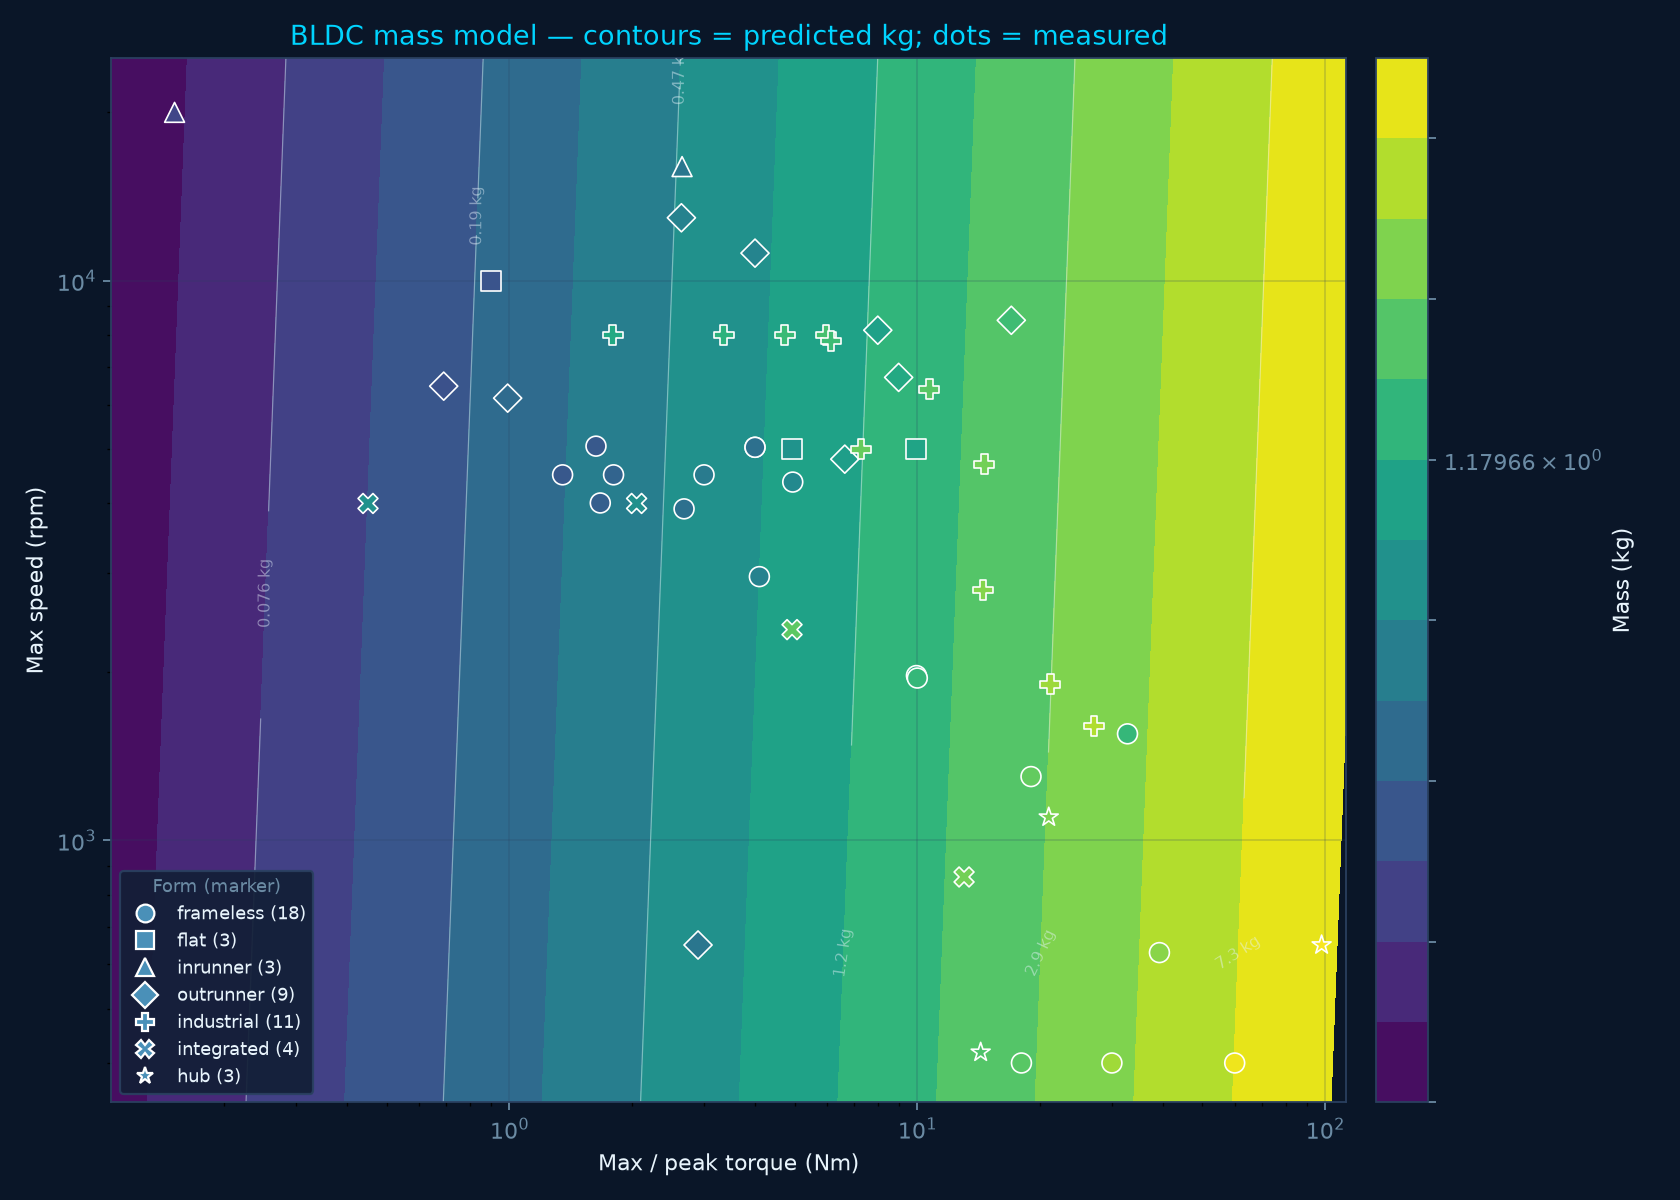
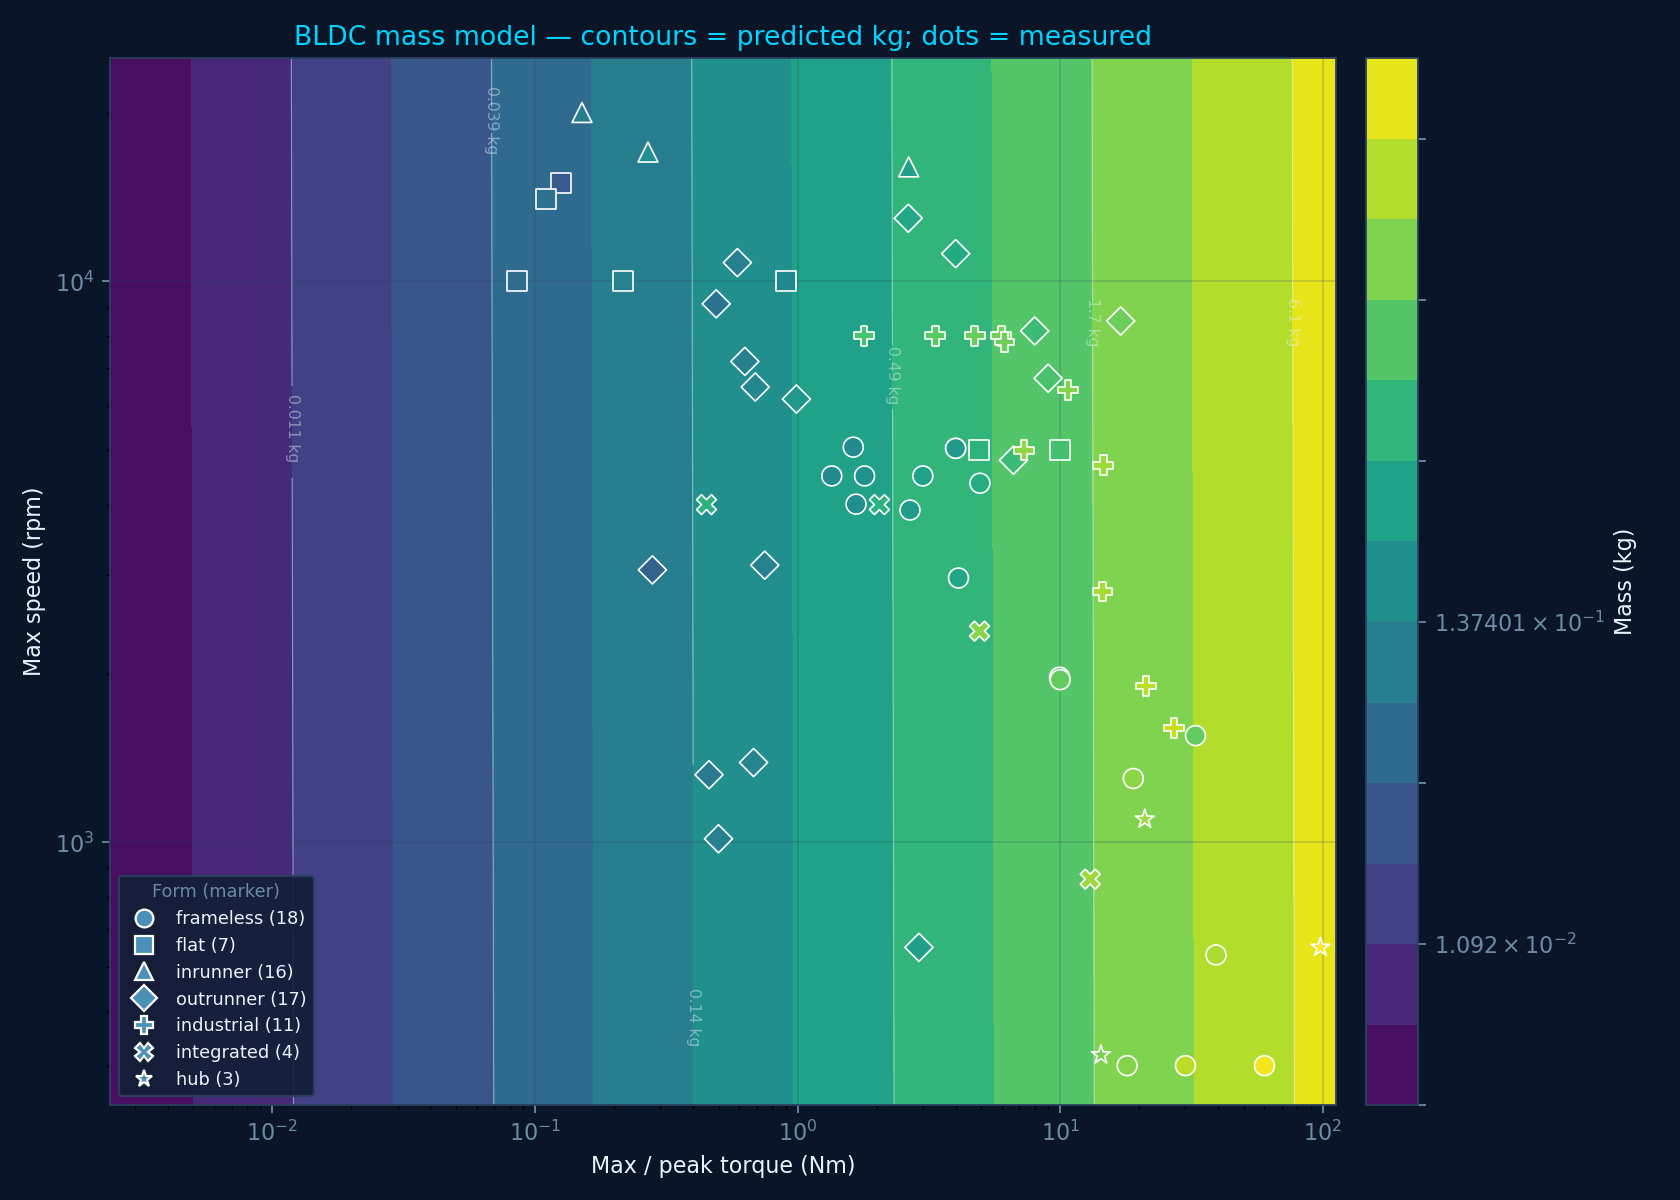
adding more motors sub 1Nm

diff --git a/README.md b/README.md
@@ -168,7 +168,7 @@ Bare brushless motors (not geared joint modules) live in `data/bldc_motor_data.c
 
 ### Dataset
 
-Rows span **small → medium → large** BLDC motors from CubeMars (frameless RI/RO), Maxon (EC flat), Faulhaber, Kollmorgen (AKM2G LV), Teknic ClearPath (integrated servo), ODrive (outrunner / hub), T-Motor, plus **AliExpress/Alibaba OEM** coverage (Flipsky esk8 outrunners, HXC/MOSRAC frameless torque motors, scooter/QS hubs). Core fields:
+Rows span **small → medium → large** BLDC motors from CubeMars (frameless RI/RO + GL gimbal), Maxon (EC / ECX SPEED / ECX FLAT), Faulhaber (micro through 32 mm), Kollmorgen (AKM2G LV), Teknic ClearPath (integrated servo), ODrive (outrunner / hub), T-Motor (Antigravity), plus **AliExpress/Alibaba OEM** coverage (Flipsky esk8 outrunners, HXC/MOSRAC frameless torque motors, scooter/QS hubs). Dense coverage below **1 Nm** (Faulhaber/Maxon micros + CubeMars GL30–40 + MN4006/5006). Core fields:
 
 - **Max_Torque_Nm** — peak / stall / short-term max (primary torque for the mass model)
 - **Max_Speed_rpm** — no-load or catalog max speed
@@ -185,7 +185,7 @@ Notes cite the catalog / shop page. Empty cells mean the source did not publish 
 log(mass) = a + b · log(τ_max) + c · log(ω_max)
 ```
 
-Physically this is a power-law `mass ∝ τ^b · ω^c`. On the current set, **torque dominates** (`b ≈ 0.82`); the speed exponent is near zero. Current fit (listed-mass rows, n≈51): in-sample R²(log) **~0.78**, leave-one-out R² **~0.75**, LOO MAE **~0.66 kg**. Example: 2 Nm peak @ 4000 rpm → **~0.5 kg**.
+Physically this is a power-law `mass ∝ τ^b · ω^c`. On the current set, **torque dominates** (`b ≈ 0.72`); the speed exponent is near zero. Current fit (listed-mass rows, n≈76): in-sample R²(log) **~0.88**, leave-one-out R² **~0.87**, LOO MAE **~0.57 kg**. Example: 2 Nm peak @ 4000 rpm → **~0.5 kg**.
 
 ```bash
 pixi run motor-analyze
